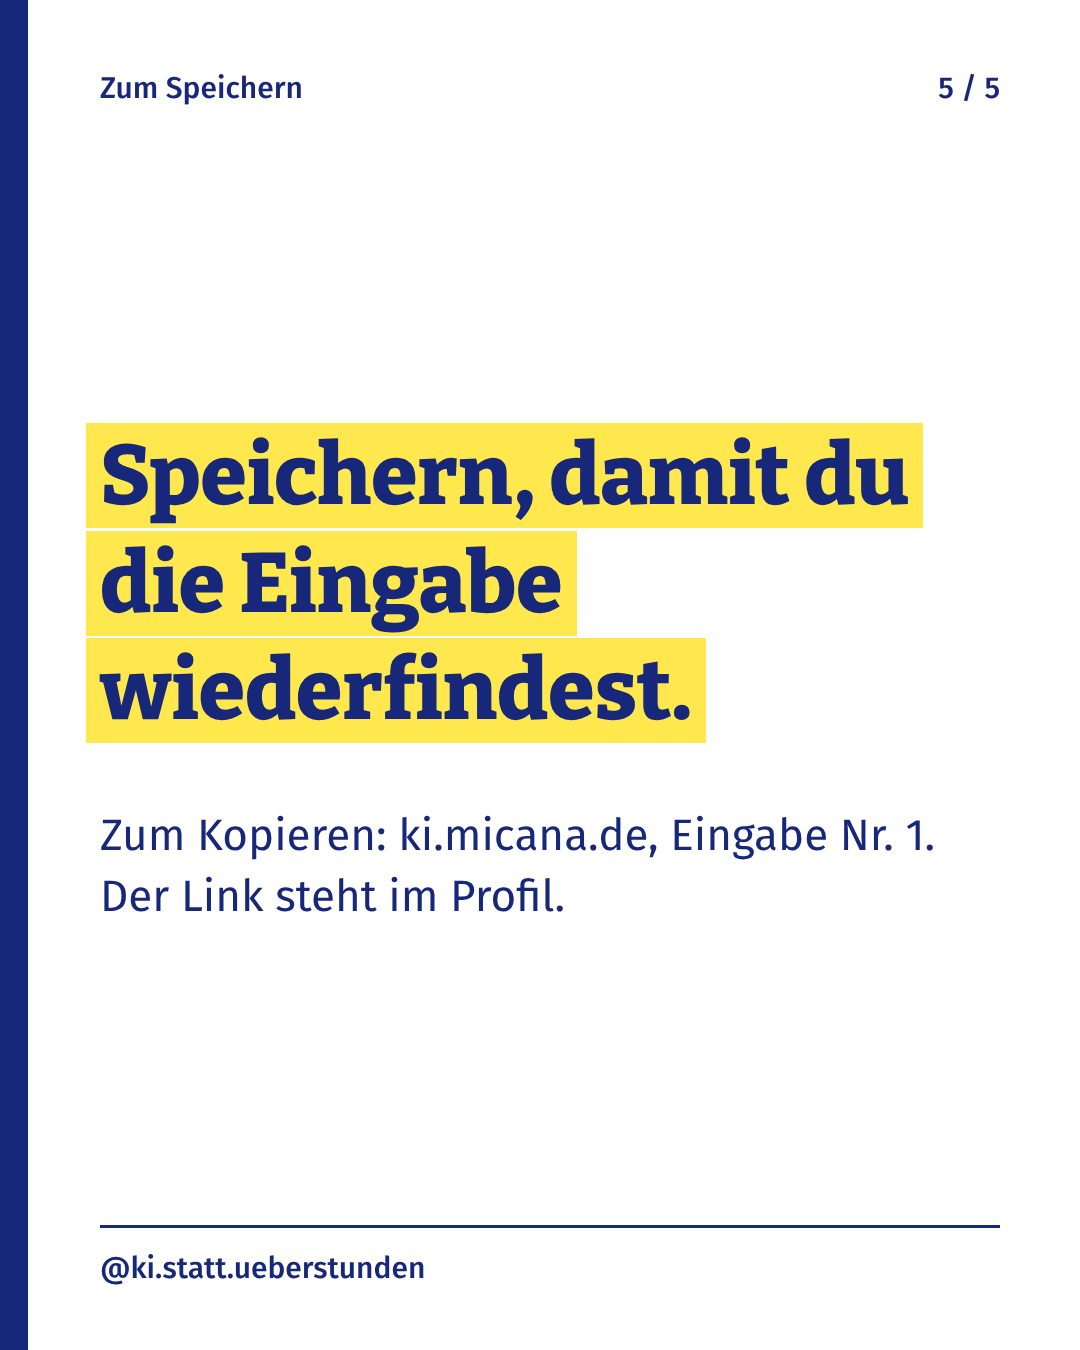
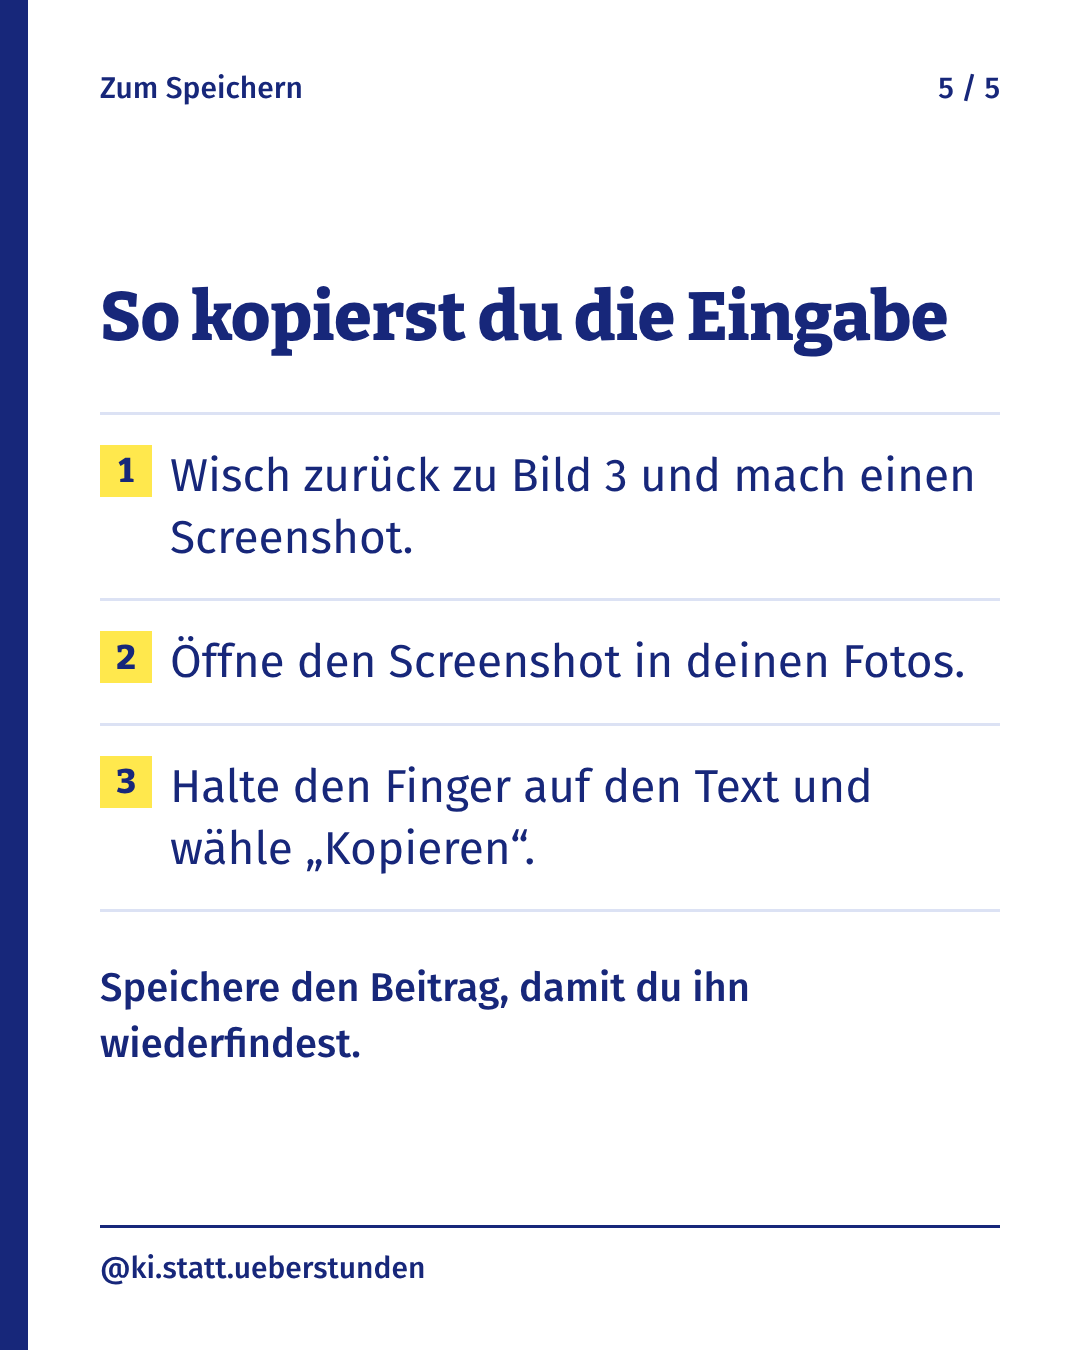
Kopieren direkt aus Instagram: Eingabe-Bild für Texterkennung, Anleitung auf dem letzten Bild
Claude-Session: https://claude.ai/code/session_01YDDbMn68JFy3kSZ3fb5rCB

Changed region(s): [[0.0611, 0.3111, 0.9167, 0.6844], [0.0917, 0.7156, 0.7028, 0.8089], [0.0917, 0.1867, 0.8861, 0.28]]

diff --git a/docs/studio.html b/docs/studio.html
@@ -54,7 +54,7 @@ Schick das jemandem, der alles einfügt.
 <button class="hell" data-kopiere="c2">Beitragstext kopieren</button></div>
 <pre id="c2">Protokoll schreiben ist die Aufgabe, die nach jeder Besprechung liegen bleibt. Mit dieser Eingabe wird aus deinen Stichpunkten in zwei Minuten ein sauberes Protokoll mit Aufgabenliste.
 
-Eingabe zum Kopieren: Link im Profil (Nr. 2).
+Zum Kopieren: Screenshot von Bild 3 machen und den Text im Foto markieren. Die Anleitung steht auf dem letzten Bild.
 
 #protokoll #büroalltag #kiimbüro #assistenz #zeitsparen</pre></article><article>
 <div class="meta"><span>Nr. 1, Zum Speichern</span><span>5 Bilder</span></div>
@@ -64,7 +64,7 @@ Eingabe zum Kopieren: Link im Profil (Nr. 2).
 <button class="hell" data-kopiere="c1">Beitragstext kopieren</button></div>
 <pre id="c1">Unverschämte Mail im Postfach? Lass dir den ersten Entwurf schreiben und prüfe nur noch, ob alles stimmt.
 
-Die Eingabe zum Kopieren findest du über den Link im Profil (Nr. 1).
+Zum Kopieren: Screenshot von Bild 3 machen und den Text im Foto markieren. Die Anleitung steht auf dem letzten Bild.
 
 Speichern, damit du sie beim nächsten Ärger-Postfach zur Hand hast.
 

diff --git a/build.py b/build.py
@@ -61,9 +61,8 @@ li {{ font-size: 46px; line-height: 1.34; padding: 30px 0 30px 70px; border-top:
 li:last-child {{ border-bottom: 3px solid {LINIE}; }}
 li::before {{ content: ""; position: absolute; left: 4px; top: 44px; width: 34px; height: 34px; background: {MARKER};
   border: 3px solid {TINTE}; }}
-.zettel {{ background: repeating-linear-gradient({PAPIER} 0 59px, {LINIE} 59px 62px);
-  border-left: 8px solid {MARKER}; padding: 0 0 0 36px; }}
-.zettel p {{ font-size: 37px; line-height: 62px; font-weight: 500; margin-bottom: 62px; }}
+.zettel {{ border-left: 10px solid {MARKER}; padding: 6px 0 6px 38px; }}
+.zettel p {{ font-size: 39px; line-height: 1.5; font-weight: 500; margin-bottom: 44px; }}
 .zettel p:last-child {{ margin-bottom: 0; }}
 .stempel {{ position: absolute; right: 90px; bottom: 230px; transform: rotate(-7deg); color: {STEMPEL};
   border: 7px solid {STEMPEL}; border-radius: 14px; padding: 18px 34px; font-family: Bitter, serif;
@@ -71,6 +70,11 @@ li::before {{ content: ""; position: absolute; left: 4px; top: 44px; width: 34px
 .stempel small {{ display: block; font-family: Fira, sans-serif; font-size: 26px; font-weight: 500; }}
 .schluss {{ font-family: Bitter, serif; font-weight: 800; font-size: 84px; line-height: 1.28; }}
 .schluss + p {{ font-size: 44px; line-height: 1.4; margin-top: 60px; }}
+ol {{ list-style: none; counter-reset: schritt; }}
+ol li {{ counter-increment: schritt; }}
+ol li::before {{ content: counter(schritt); background: {MARKER}; border: 0; width: 52px; height: 52px; top: 30px;
+  left: 0; font-family: Bitter, serif; font-weight: 800; font-size: 34px; display: grid; place-items: center; }}
+.hinweis {{ font-size: 40px; line-height: 1.4; margin-top: 48px; font-weight: 500; }}
 """
 
 
@@ -89,8 +93,12 @@ def slide_html(post, slide, i, n, basis):
         inhalt = f"<h2>{e(slide['kopf'])}</h2><div class='zettel'>{absatz(post['eingabe'])}</div>"
     elif typ == "schluss":
         if post["eingabe"]:
-            inhalt = (f"<div class='schluss'><span>Speichern, damit du die Eingabe wiederfindest.</span></div>"
-                      f"<p>Zum Kopieren: {DOMAIN}, Eingabe Nr. {post['nr']}.<br>Der Link steht im Profil.</p>")
+            bild = next(k for k, x in enumerate(post["slides"], 1) if x["typ"] == "eingabe")
+            inhalt = (f"<h2>So kopierst du die Eingabe</h2><ol>"
+                      f"<li>Wisch zurück zu Bild {bild} und mach einen Screenshot.</li>"
+                      f"<li>Öffne den Screenshot in deinen Fotos.</li>"
+                      f"<li>Halte den Finger auf den Text und wähle „Kopieren“.</li></ol>"
+                      f"<p class='hinweis'>Speichere den Beitrag, damit du ihn wiederfindest.</p>")
         else:
             inhalt = ("<div class='schluss'><span>Schick das jemandem, der alles einfügt.</span></div>"
                       "<p>Mehr KI fürs Büro, ehrlich getestet:<br>folge @" + KANAL + "</p>")
